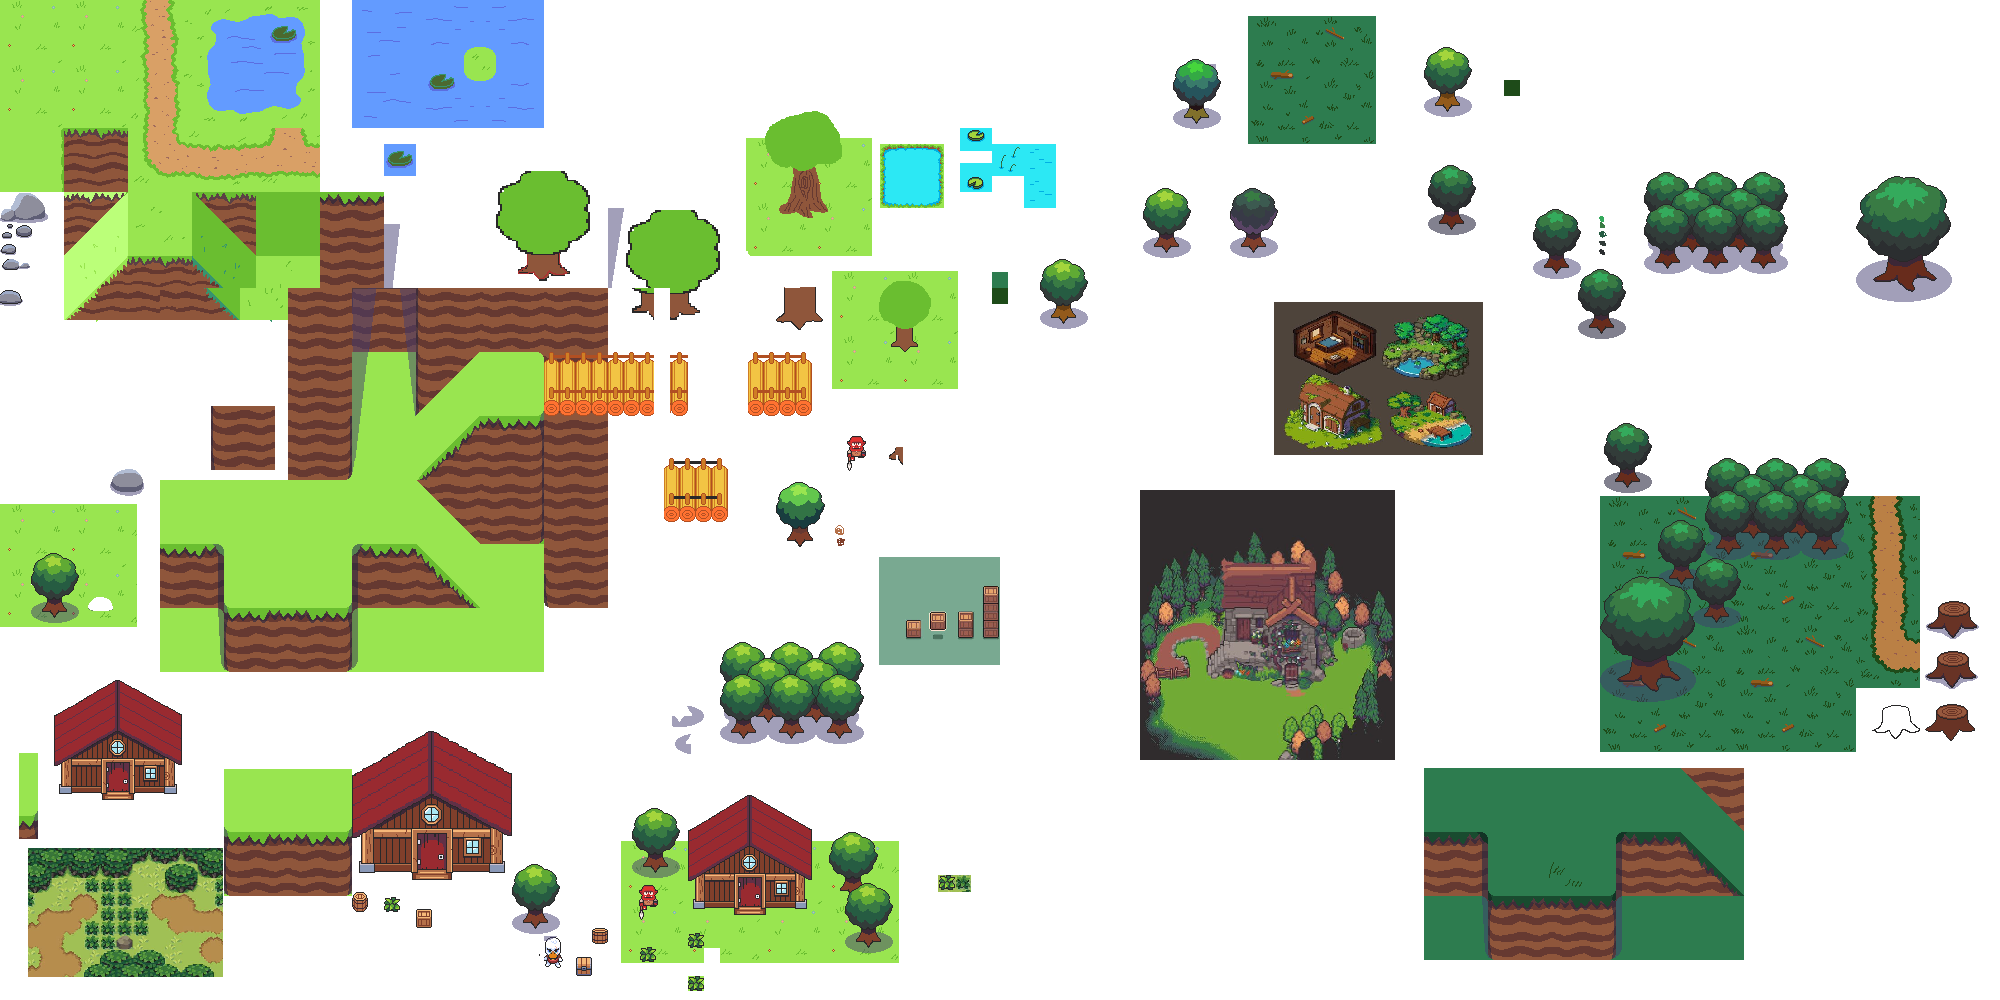
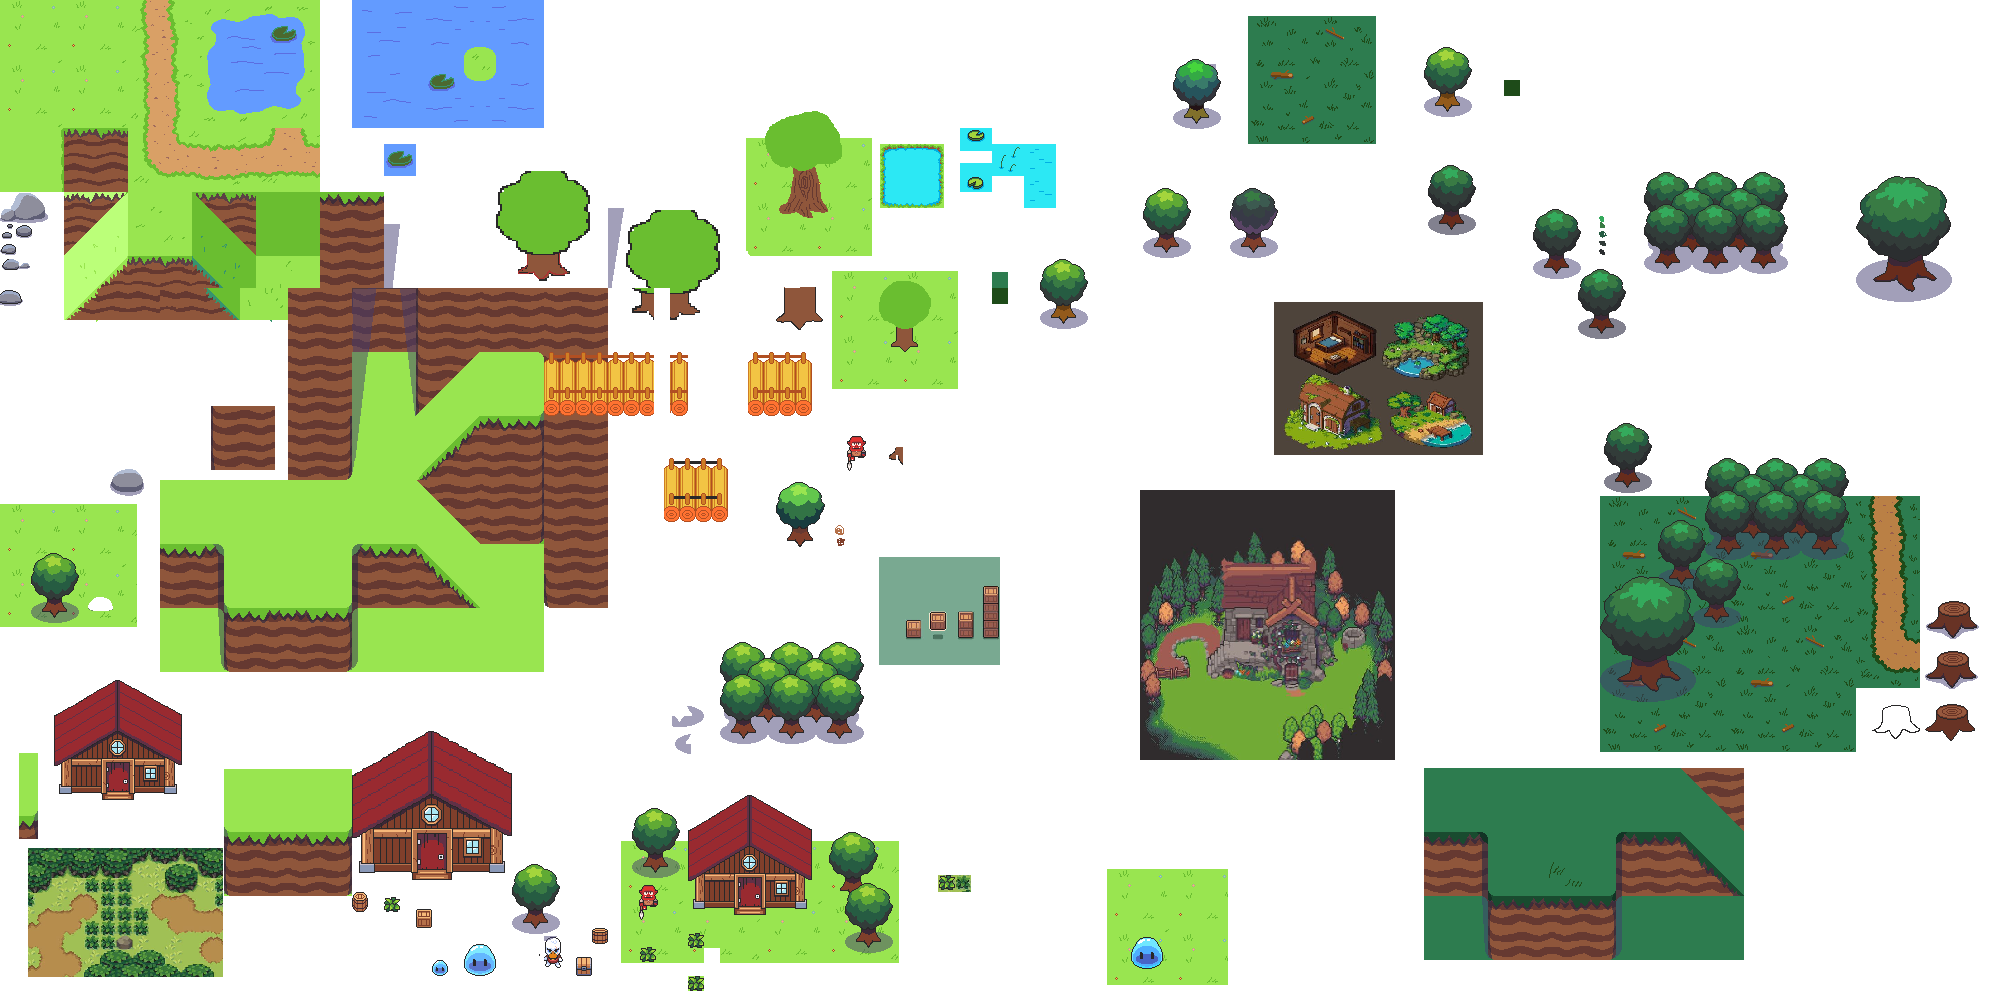
vie et argent entre scene + fix sprite argent

Changed region(s): [[0.527, 0.868, 0.62, 0.992], [0.217, 0.93, 0.248, 0.992]]

diff --git a/le code.html b/le code.html
@@ -40,12 +40,12 @@ this.invincible = false;
 this.compteurInvincible = 80;
 this.direction = "bas";
 this.possedeEpee = false;
-this.nombreArgent = 0
+this.memoireArgent = 0
 this.possedePalme = false
 this.porte = false
 }
 update(){
-    this.scene.start('scene1',{porte : false,memoirevie : this.memoirevie})}
+    this.scene.start('scene1',{porte : false, memoirevie : this.memoirevie, memoireArgent : this.memoireArgent, memoireEpee : this.possedeEpee})}
 
 };
 
@@ -62,7 +62,9 @@ class scene1 extends Phaser.Scene{
         super("scene1");
     }
 
-init(data){this.vie = data.memoirevie
+init(data){this.vie = data.memoirevie,
+            this.nombreArgent = data.memoireArgent,
+            this.possedeEpee = data.memoireEpee
 }
 
 preload(){
@@ -93,6 +95,7 @@ preload(){
     this.load.image("vie2", "assets/vie2.png");
     this.load.image("vie1", "assets/vie1.png");
     this.load.image("argent", "assets/argent.png");
+    this.load.image("coin", "assets/coin.png");
 
 }
 
@@ -107,8 +110,6 @@ this.compteurAttaqueTemps = 40;
 this.invincible = false;
 this.compteurInvincible = 80;
 this.direction = "bas";
-this.possedeEpee = false;
-this.nombreArgent = 0
 this.possedePalme = false
 this.porte = true
 
@@ -162,9 +163,10 @@ this.porte = true
 this.physics.world.setBounds(0, 0, 3200, 3200);
 //this.cameras.main.setBounds(0, 0, 14400, 8000);
 
+this.coinEcran = this.add.image(265,177,"coin");
+this.coinEcran.setScrollFactor(0)
 
-
-this.texte = this.add.text(260,170,this.nombreArgent)
+this.texte = this.add.text(280,170,this.nombreArgent)
 this.texte.setScrollFactor(0)
 
     
@@ -178,7 +180,7 @@ this.texte.setScrollFactor(0)
 
     function leTP1(){
         
-        this.scene.start('scene2',{porte : true, memoirevie : this.vie})}
+        this.scene.start('scene2',{porte : true, memoirevie : this.vie, memoireArgent : this.nombreArgent, memoireEpee : this.possedeEpee})}
 
     layerteleportation.setCollisionByProperty({ tp: true });
     this.physics.add.collider(this.player, layerteleportation, leTP1,null,this);
@@ -218,13 +220,28 @@ this.texte.setScrollFactor(0)
 
 
     this.blob = this.physics.add.sprite(100,200,"blob",true);
-    this.gobelin.anims.play('animBlob',true)
+    this.blob.anims.play('animBlob',true)
 
 
+
+
+    this.blobGroupe = this.physics.add.group()
+
+
+carteDuNiveau.getObjectLayer('blobLayer').objects.forEach((blobGroupe) => {
+this.blob = this.blobGroupe.create(blobGroupe.x, blobGroupe.y, 'blob');
+this.blob.anims.play('animBlob',true)
+this.blob.setSize(20, 26);
+this.blob.setOffset(5, 10);
+});
+
+
+
+this.blob.setInteractive()
 
     //this.porte = this.pysics.add.sprite(330,200,"epee");
-
-    this.epee = this.physics.add.sprite(300,300,"epee");
+    if (this.possedeEpee == false){
+    this.epee = this.physics.add.sprite(300,300,"epee");}
 
     this.palme = this.physics.add.sprite(300,0,"palme");
     
@@ -298,7 +315,7 @@ this.texte.setScrollFactor(0)
     this.anims.create({
                 key: 'animBlob',
                 frames: this.anims.generateFrameNumbers('blob', {start:0,end:3}),
-                frameRate: 8,
+                frameRate: 4,
                 repeat: -1
             });
 
@@ -322,6 +339,8 @@ this.texte.setScrollFactor(0)
 
         this.physics.add.overlap( this.player, this.ennemiGroupe, this.attaqueEnnemi, null,this);
         this.physics.add.overlap( this.player, this.ennemiGroupe, this.perdPV, null,this);
+        this.physics.add.overlap( this.player, this.blobGroupe, this.attaqueEnnemiBlob, null,this);
+        this.physics.add.overlap( this.player, this.blobGroupe, this.perdPVBlob, null,this);
         this.physics.add.overlap( this.player, this.epee, this.obtenirEpee, null,this);
         this.physics.add.overlap( this.player, this.palme, this.obtenirPalme, null,this);
 
@@ -486,6 +505,30 @@ perdPV (player,ennemi){
             }
     }
 
+
+    attaqueEnnemiBlob (player,blob){
+        if (this.attaque==true){
+            blob.destroy();
+            this.argent = this.physics.add.image(player.x+(blob.x-player.x)*2,player.y+(blob.y-player.y)*2,"argent");
+            this.argent.setSize(15, 15);
+            this.argent.setOffset(10, 10);
+                    this.physics.add.collider( this.player, this.argent, this.obtenirArgent, null,this);
+
+        }
+    }
+
+perdPVBlob (player,blob){
+    if (this.invincible == false){
+        this.vie --}
+    this.invincible = true;
+    this.compteurInvincible -=1 ;
+    player.setTint(0xffffff);
+            if(this.compteurInvincible == 0){
+                this.compteurInvincible = 80;
+                this.invincible = false ;
+            }
+    }
+
     
 obtenirEpee (player,epee){
     this.possedeEpee = true;
@@ -494,7 +537,7 @@ obtenirEpee (player,epee){
 
 obtenirArgent (player,argent){
     argent.destroy();
-    this.nombreArgent += 1;
+    this.nombreArgent += 5;
     this.texte.setText(this.nombreArgent)
 }
 
@@ -531,6 +574,8 @@ class scene2 extends Phaser.Scene{
     }
     init(data){ this.porte = data.porte;
                 this.vie = data.memoirevie;
+                this.nombreArgent = data.memoireArgent;
+                this.possedeEpee = data.memoireEpee
     }
 
 
@@ -556,8 +601,6 @@ this.compteurAttaqueTemps = 40;
 this.invincible = false;
 this.compteurInvincible = 80;
 this.direction = "bas";
-this.possedeEpee = false;
-this.nombreArgent = 0
 this.possedePalme = false
     
     // importer Tiled
@@ -607,7 +650,7 @@ this.possedePalme = false
 
 
     function leTP2(){
-        this.scene.start('scene1',{memoirevie : this.vie})}
+        this.scene.start('scene1',{memoirevie : this.vie , memoireArgent : this.nombreArgent, memoireEpee : this.possedeEpee})}
 
     layerteleportation.setCollisionByProperty({ tp: true });
     this.physics.add.collider(this.player, layerteleportation, leTP2,null,this);
